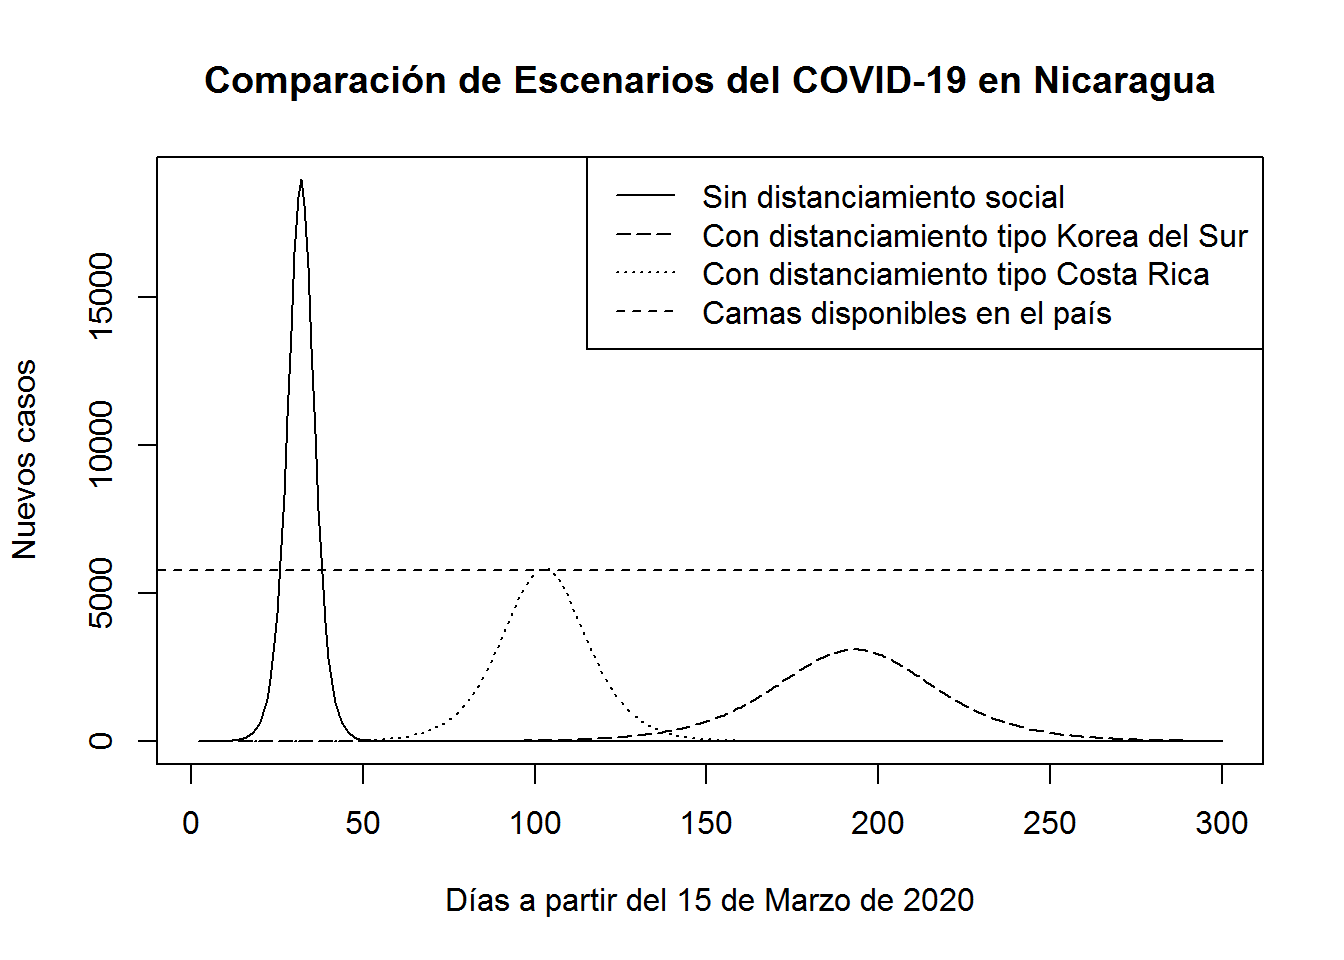
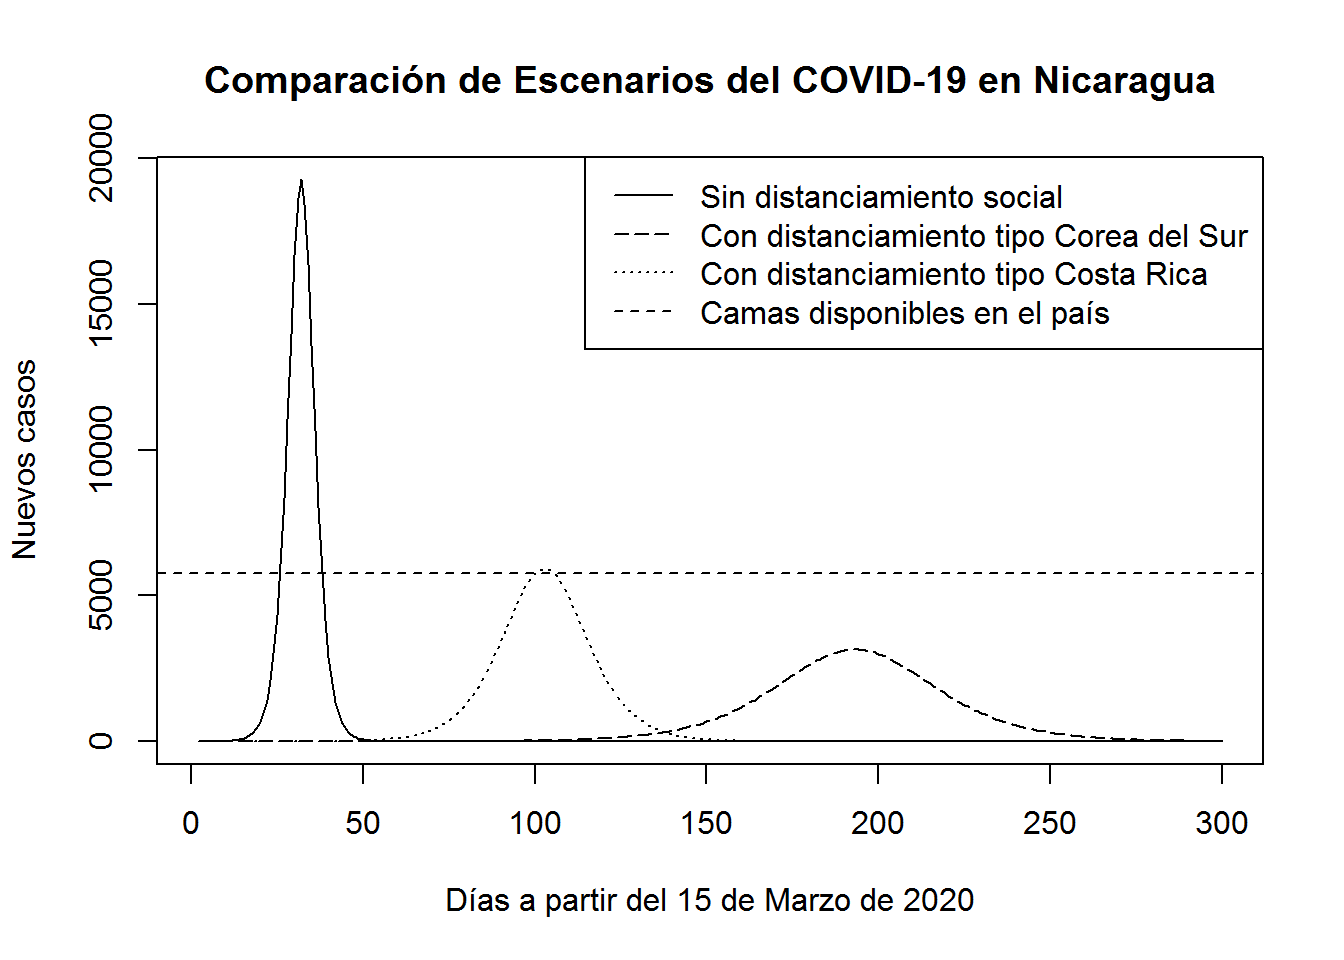
Add files via upload

diff --git a/COVID-19_Nicaragua.html b/COVID-19_Nicaragua.html
@@ -318,7 +318,7 @@ $(document).ready(function () {
 <p>El COVID-19 es la infermedad infecciosa causada por el coronavirus de Wuhan. Existe mucha incertidumbre sobre el comportamiento que tendrá esta enfermedad en Nicaragua. Usaremos las estadísticas reportadas por otros países, datos poblacionales generales y modelos matemáticos del crecimiento biológico para sacar nuestras propias conclusiones. Que el ejercicio sirva para generar conciencia, discusión y mutuo aprendizaje.</p>
 <div id="muertes-a-mediano-y-largo-plazo" class="section level2">
 <h2>Muertes a mediano y largo plazo</h2>
-<p>Usando la <a href="https://datosmacro.expansion.com/paises/nicaragua">pirámide poblacional de Nicaragua</a>, y la <a href="https://www.worldometers.info/coronavirus/coronavirus-age-sex-demographics/">tasa de muertes por el COVID-19</a>, podemos calcular cuántas personas morirán en Nicaragua. Dado que no hay impuesta una política de distanciamiento social, podemos asumir que la infección será generalizada. De esta forma, la relación con las muertes esperadas, asumiendo que todos se contagian, es fácil de estimar:</p>
+<p>Usando la <a href="https://datosmacro.expansion.com/paises/nicaragua">pirámide poblacional de Nicaragua</a>, y la <a href="https://www.worldometers.info/coronavirus/coronavirus-age-sex-demographics/">tasa de muertes por el COVID-19</a>, podemos calcular cuántas personas podrían morir en Nicaragua. Dado que no hay impuesta una política de distanciamiento social, podemos asumir que la infección será generalizada. De esta forma, la relación con las muertes esperadas, asumiendo que todos se contagian, es fácil de estimar:</p>
 <table>
 <colgroup>
 <col width="15%" />
@@ -422,7 +422,7 @@ $(document).ready(function () {
 </tbody>
 </table>
 <p>Así, de un total de 6,632,977, se espera que a causa del COVID-19 mueran a largo plazo <strong>49,819.98</strong>, una tasa de mortalidad del <strong>0.75%</strong>.</p>
-<p>A mediano plazo podemos considerar únicamente a los centros urbanos, la población más expuerta al virus. Según el <a href="https://www.elnuevodiario.com.ni/economia/463377-mas-mitad-nicas-residen-areas-urbanas/">nuevo diario</a> al 2018 había un 57.6% de la población viviendo en concentraciones urbanas. Esto es, la población en riesgo de contagio corresponde a 3,820,595 personas, lo que resultaría en una mortalidad a mediano plazo de 49,819.98 * 57.6/100 = <strong>28,696.31 individuos</strong>.</p>
+<p>A mediano plazo podemos considerar únicamente a los centros urbanos, la población más expuesta al virus. Según el <a href="https://datos.bancomundial.org/indicador/SP.RUR.TOTL.ZS?locations=NI">Banco Mundial</a> al 2018 41.478% de la población vivía en el campo, esto es 58.522% de la población se estima vivía en concentraciones urbanas. Así, la población en riesgo de contagio corresponde a 3,881,751 personas, lo que resultaría en una mortalidad a mediano plazo de 49,819.98 * 0.58522 = <strong>29,155.65 individuos</strong>.</p>
 </div>
 <div id="modelo-de-crecimiento-dinámico-de-la-infección" class="section level2">
 <h2>Modelo de crecimiento dinámico de la infección</h2>
@@ -448,8 +448,8 @@ N(t) = \frac{KN_0}{(K - N_0)e^{-rt}+N_0},
 </ul>
 <div id="población-infectada-inicial" class="section level3">
 <h3>Población infectada inicial</h3>
-<p>Según diario de Nicaragua, <a href="https://www.el19digital.com/articulos/ver/titulo:101277-vigilancia-epidemiologica-permanente-permite-que-nicaragua-aun-no-registre-casos-de-coronavirus">El 19 Digital</a>, no existen casos de COVID-19 en el país al 15 de marzo de 2020. Los <a href="https://www.el19digital.com/el19tv/ver/titulo:14699-asi-es-el-protocolo-de-seguridad-sanitaria-ante-el-coronavirus-en-el-aeropuerto-augusto-c-sandino">protocolos de prevensión usados usados</a>, no son infalibles. Basta con observar lo <a href="https://nuevaya.com.ni/centroamerica-reporta-dos-fallecidos-por-el-coronavirus/">casos de COVID-19 en los paises vecinos de centroamérica</a> para entender que a estas alturas es altamente probable que existan personas infectadas que no han sido identificadas.</p>
-<p>Hasta el momento según el <a href="https://nuevaya.com.ni/centroamerica-reporta-dos-fallecidos-por-el-coronavirus/">SICA</a>, al 15 de marzo de 2020, en Centroamérica se han identificado los siguientes casos:</p>
+<p>Según diario de Nicaragua, <a href="https://www.el19digital.com/articulos/ver/titulo:101277-vigilancia-epidemiologica-permanente-permite-que-nicaragua-aun-no-registre-casos-de-coronavirus">El 19 Digital</a>, no existen casos de COVID-19 en el país al 15 de marzo de 2020. Los <a href="https://www.el19digital.com/el19tv/ver/titulo:14699-asi-es-el-protocolo-de-seguridad-sanitaria-ante-el-coronavirus-en-el-aeropuerto-augusto-c-sandino">protocolos de prevención usados usados</a>, no son infalibles. Basta con observar lo <a href="https://nuevaya.com.ni/centroamerica-reporta-dos-fallecidos-por-el-coronavirus/">casos de COVID-19 en los paises vecinos de centroamérica</a> para entender que a estas alturas es altamente probable que existan personas infectadas que no han sido identificadas.</p>
+<p>Hasta el momento según el <a href="https://nuevaya.com.ni/centroamerica-reporta-dos-fallecidos-por-el-coronavirus/">SICA</a>, al 15 de marzo de 2020, en Centroamérica se habían identificado los siguientes casos:</p>
 <table>
 <thead>
 <tr class="header">
@@ -506,7 +506,7 @@ N(t) = \frac{KN_0}{(K - N_0)e^{-rt}+N_0},
 <div id="tasa-de-crecimiento" class="section level3">
 <h3>Tasa de crecimiento</h3>
 <p>Para calcular la tasa de crecimiento de la infección podemos usar como referencia la base de datos de la OMS disponible por la organización <a href="https://ourworldindata.org/"><em>Our Word in Data</em></a>. La base de datos de la OMS se puede descargar en formato CSV de <a href="https://covid.ourworldindata.org/data/full_data.csv">aquí</a>.</p>
-<p>Debido a que la base de datos es grande y difícil de manipular manualmente usando hojas de cálculo, hacemos uso de <code>R</code>, uno de los software de cienca de datos más populares al día de hoy, para extraer la base de datos y calcular el promedio de crecimiento de todos los países registrados en la OMS:</p>
+<p>Debido a que la base de datos es grande y difícil de manipular manualmente usando hojas de cálculo, hacemos uso de <code>R</code>, uno de los lenguajes de ciencia de datos más populares al día de hoy, para extraer la base de datos y calcular el promedio de crecimiento de todos los países registrados en la OMS:</p>
 <pre class="r"><code>COVID19 &lt;- read.csv(url(&quot;https://covid.ourworldindata.org/data/full_data.csv&quot;))
 
 COVID19$location = factor(COVID19$location)
@@ -544,23 +544,23 @@ cat(&quot;Tasa de crecimiento diario promedio por país es &quot;, rate_total, &
 ##  Datos faltantes =  0 
 ##  de paises:</code></pre>
 <p>Así, 1.399 es la tasa de crecimiento diaria del COVID-19. Esto implica que en un día hay un incremento de 0.399 de casos por unidad. Un valor increíblemente alto, y la razón por la cual vemos medidas tan extremas en muchas partes del mundo. En estos cálculos la tasa de crecimiento diaria de cada país tiene el mismo peso al momento de calcularse el promedio, independientemente de cuantos registros tenga cada país. Esto ayuda a reducir el sesgo de lo países que tenían más avance y sus tasas se habían reducido por las medidas de contención o por haber superado la crisis. Este último sería el caso de China.</p>
-<p>También vale la pena considerar que la tasa de transferencia se pudiera reducir en países con alta humedad y termpertura. Incluso hay un estudio prelimiar presentado por <span class="citation">Wang et al. (2020)</span> que da soporte ha esto. Sin embargo, la relación encontrada, aunque estadísticamente significativa, es baja. Estas consideraciones pueden mejorar la modelación, sin embargo, ante a incertidumbre, <a href="https://www.who.int/emergencies/diseases/novel-coronavirus-2019/advice-for-public/myth-busters">recomendaciones de la OMS sobre el tema de la temperatura y otros mitos</a> y el <a href="https://www.voanews.com/science-health/coronavirus-outbreak/australian-doctor-says-warm-weather-unlikely-stem-covid-19">escepticismo del gobierno australiano</a>, para este ejercicio, en nuestro modelo mantendremos el análisis conservador usando la estimación de <strong><span class="math inline">\(r\)</span> = 0.399</strong> que calculamos anteriormente.</p>
+<p>También vale la pena considerar que la tasa de transferencia se pudiera reducir en países con alta humedad y termpertura. Incluso hay un estudio prelimiar presentado por <span class="citation">Wang et al. (2020)</span> que da soporte a esto. Sin embargo, la relación encontrada, aunque estadísticamente significativa, es baja. Estas consideraciones pueden mejorar la modelación, sin embargo, ante la incertidumbre, <a href="https://www.who.int/emergencies/diseases/novel-coronavirus-2019/advice-for-public/myth-busters">recomendaciones de la OMS sobre el tema de la temperatura y otros mitos</a> y el <a href="https://www.voanews.com/science-health/coronavirus-outbreak/australian-doctor-says-warm-weather-unlikely-stem-covid-19">escepticismo del gobierno australiano</a>, para este ejercicio, en nuestro modelo mantendremos el análisis conservador usando la estimación de <strong><span class="math inline">\(r\)</span> = 0.399</strong> que calculamos anteriormente.</p>
 </div>
 <div id="tamaño-de-la-población-expuesta-a-la-infección" class="section level3">
 <h3>Tamaño de la población expuesta a la infección</h3>
-<p>Partiendo de una población de 6,632,977 de Nicaragüenses, donde el 57.6% vive en zonas de concentración urbana, el grupo de interés se restingiría en 3,820,595 personas. Por simplicidad ignoraremos las zonas rurales al momento de hacer los cálculos, pues el desarrollo de la enfermedad en esas zonas es menor. Así, el valor <strong><span class="math inline">\(K\)</span></strong> para nuestro modelo lo definimos como <strong>3,820,595</strong>.</p>
+<p>Partiendo de una población de 6,632,977 de Nicaragüenses, donde el 58.522% vive en zonas de concentración urbana, el grupo de interés se restingiría en 3,881,751 personas. Por simplicidad ignoraremos las zonas rurales al momento de hacer los cálculos, pues el desarrollo de la enfermedad en esas zonas es menor. Así, el valor <strong><span class="math inline">\(K\)</span></strong> para nuestro modelo lo definimos como <strong>3,881,751</strong>.</p>
 </div>
 <div id="estimación-del-pico-de-la-crisis" class="section level3">
 <h3>Estimación del pico de la crisis</h3>
 <p>Ajustando el modelo de <span class="citation">Verhulst (1838)</span> anteriormente expuesto obtenemos</p>
 <p><span class="math display">\[\begin{equation}
-N(t) = \frac{(3,820,595)(14)}{(3,820,595 - 14)e^{-0.347t}+14},
+N(t) = \frac{(3,881,751)(14)}{(3,881,751 - 14)e^{-0.399t}+14},
 \end{equation}\]</span></p>
 <p>lo que genera una curva sinoidal como se muestra</p>
 <p><img src="COVID-19_Nicaragua_files/figure-html/Crecimiento-1.png" width="672" /></p>
 <p>Ahora, si en lugar de observar el crecimiento de los contagios, revisamos sólo los casos nuevos obtenemos</p>
 <p><img src="COVID-19_Nicaragua_files/figure-html/IncDiario-1.png" width="672" /></p>
-<p>El modelo inicia al tiempo cero, con 14 casos el día 15 de Marzo. Aproximadamente para el 4 de Abril se espera un fuerte crecimiento en el número de casos que se mantendrá a lo largo de un mes, cuando la saturación en la población haga que la infección se ralentice. La mayoría de los casos de infección serán “inofensivos”, sin embargo, un 0.75% serán letales e impondrá un fuerte estrés al sistema de salud. Se espera que entre el 4 de Abril y el 4 de Mayo el sistema de salud del país colapse a menos que se tomen medida precautorias, que incluso pueden probar no ser suficientes.</p>
+<p>El modelo inicia al tiempo cero, con 14 casos el día 15 de Marzo. Aproximadamente para el 2020-03-23 se espera un crecimiento en el número de casos de 100 personas o más que se mantendrá hasta el 2020-05-10, cuando la saturación en la población haga que la infección se ralentice a menos de 100 casos por día. La mayoría de los casos de infección serán “inofensivos”, sin embargo, un 0.75% serán letales e impondrá un fuerte estrés al sistema de salud. Se espera que entre esas fechas el sistema de salud del país colapse a menos que se tomen medida precautorias, que incluso pueden probar no ser suficientes.</p>
 <p>Los resultados calculados pueden resultar dramáticos para algunos. Sin embargo, este comportamiento es propio de los crecimientos exponenciales, y el escenario descrito corresponde muy de cerca con los <a href="https://www.infobae.com/america/mexico/2020/03/12/coronavirus-en-mexico-en-15-dias-podriamos-pasar-a-la-fase-de-contagios-comunitarios-con-cientos-de-casos-estima-la-secretaria-de-salud/">escenarios no deseados y estimados en México</a>.</p>
 </div>
 </div>
@@ -572,14 +572,19 @@ N(t) = \frac{(3,820,595)(14)}{(3,820,595 - 14)e^{-0.347t}+14},
 </div>
 <div id="se-puede-mejorar-esta-situación" class="section level2">
 <h2>¿Se puede mejorar esta situación?</h2>
-<p>Sí, sí se puede. Existen diversas estrategias para combatir la infección que han probado ser efectivas para reducir el crecimiento de la infección. Cabe notar que el avance del COVID-19 hace no factible evitar el contagio de la enfermedad aún en cuarentenas. Entre los países que han logrado mitigar el avance de las infecciones se encuentra el Korea del Sur, que ha dado un ejemplo para el mundo, y de manera local <a href="https://www.ministeriodesalud.go.cr/index.php/centro-de-prensa/noticias/741-noticias-2020/1572-gobierno-declara-estado-de-emergencia-nacional-impide-llegada-de-extranjeros-y-se-suspende-lecciones-en-todos-los-centros-educativos-del-pais">Costa Rica</a>.</p>
-<p>Con sus medidas Korea del Sur ha logrado mantener una <a href="https://ourworldindata.org/coronavirus">tasa de crecimiento que dobla los casos confirmados en 11 días</a>. Esto implica una tasa diaria de crecimiento de <span class="math inline">\(2^{1/11}\)</span> = 1.065. Es decir, que en un día los casos en Korea del Sur crecen en un <span class="math inline">\(r\)</span> de 6.5 %. Por otro lado, siguiendo la <a href="https://ourworldindata.org/coronavirus">misma fuente de información</a> del caso de Korea del Sur, Costa Rica mantiene una tasa de crecimiento inicial que dobla los casos confirmados en 6 días. Esto implica una tasa diaria de <span class="math inline">\(2^{1/6}\)</span> = 1.122, o un <span class="math inline">\(r\)</span> de 12.2%.</p>
-<p>Si Nicaragua tomara las medidas de Korea del Sur o de Costa Rica, los casos que requerirían hospitalización se reducirían de la siguiente manera:</p>
+<p>Sí, sí se puede. Existen diversas estrategias para combatir la infección que han probado ser efectivas para reducir el crecimiento de la infección. Cabe notar que el avance del COVID-19 hace no factible evitar el contagio de la enfermedad aún en cuarentenas. Entre los países que han logrado mitigar el avance de las infecciones se encuentra Corea del Sur, que ha dado un ejemplo para el mundo, y de manera local <a href="https://www.ministeriodesalud.go.cr/index.php/centro-de-prensa/noticias/741-noticias-2020/1572-gobierno-declara-estado-de-emergencia-nacional-impide-llegada-de-extranjeros-y-se-suspende-lecciones-en-todos-los-centros-educativos-del-pais">Costa Rica</a>.</p>
+<p>Con sus medidas Corea del Sur ha logrado mantener una <a href="https://ourworldindata.org/coronavirus">tasa de crecimiento que dobla los casos confirmados en 11 días</a>. Esto implica una tasa diaria de crecimiento de <span class="math inline">\(2^{1/11}\)</span> = 1.065. Es decir, que en un día los casos en Corea del Sur crecen en un <span class="math inline">\(r\)</span> de 6.5 %. Por otro lado, siguiendo la <a href="https://ourworldindata.org/coronavirus">misma fuente de información</a> del caso de Corea del Sur, Costa Rica, también con medidas de distanciamiento social y otras medidas epidemiologicas recomendadas, mantiene una tasa de crecimiento inicial que dobla los casos confirmados en 6 días. Esto implica una tasa diaria de <span class="math inline">\(2^{1/6}\)</span> = 1.122, o un <span class="math inline">\(r\)</span> de 12.2%.</p>
+<p>Si Nicaragua tomara las medidas de Corea del Sur o de Costa Rica, los casos que requerirían hospitalización se reducirían de la siguiente manera:</p>
 <p><img src="COVID-19_Nicaragua_files/figure-html/Escenarios-1.png" width="672" /></p>
-<p>Claramente se observa que el efecto de tomar medidas como las de Korea del Sur deja al país en una situación grave, pero todavía manejable, con una esperanza de salir airosos de la crisis. El total de casos no se disminuye, pero poder controlar la tasa de crecimiento evita el colapso del sistema de salud.</p>
+<p>Claramente se observa que el efecto de tomar medidas como las de Corea del Sur deja al país en una situación grave, pero todavía manejable, con una esperanza de salir airosos de la crisis. El total de casos no se disminuye, pero poder controlar la tasa de crecimiento evita el colapso del sistema de salud.</p>
 </div>
-<div id="para-concluir-qué-podemos-hacer-por-nuestro-país" class="section level2">
-<h2>Para Concluir, ¿Qué Podemos Hacer por Nuestro País?</h2>
+<div id="algunas-consideraciones" class="section level2">
+<h2>Algunas consideraciones</h2>
+<p>Como en toda modelación, los supuestos son los que la sostienen. Entre estos supuestos el número de casos actuales <span class="math inline">\(N_0\)</span> se estimó como 14, muy distinto los 0 casos identificados. Una mejor estimación mejoraría la estimación del pico de la crisis. Por ejemplo, si <span class="math inline">\(N_0\)</span> se reestimara en 2, el período de la crisis se postergaría por 5 días. Analistas interesados pueden usar el modelo ya calibrado para estudiar distintos escenarios.</p>
+</div>
+<div id="para-concluir-qué-podemos-hacer" class="section level2">
+<h2>Para Concluir, ¿Qué Podemos Hacer?</h2>
+<p>Como conclusión, estamos al borde de una una situación crítica y única en el mundo, donde el actuar individual y colectivo de hoy tendrá un impacto duradero el nuestro futuro.</p>
 <p>Las acciones son claras, el <a href="https://www.ecdc.europa.eu/en/publications-data/rapid-risk-assessment-novel-coronavirus-disease-2019-covid-19-pandemic-increased">Centro Europeo de Prevención y Control</a> tras hacer un análisis de riesgo de la situación resume las medidas de la siguiente manera:</p>
 <ul>
 <li>Distanciamiento social.</li>
@@ -589,7 +594,7 @@ N(t) = \frac{(3,820,595)(14)}{(3,820,595 - 14)e^{-0.347t}+14},
 <li>Si las capacidades están limitadas, priorizar acciones que maximicen su efecto en las masas de población.</li>
 <li>Monitoreo y detección rápida de casos para reducir la diseminación de la enfermedad.</li>
 </ul>
-<p>Actuar con prontitud y contundencia parace ser el curso recomendado. Postergar las acciones o implementarlas inadecuadamente puede llevar a <a href="https://www.thelancet.com/journals/lancet/article/PIIS0140-6736(20)30522-5/fulltext">graves consecuencias</a>.</p>
+<p>Actuar con prontitud y contundencia parece ser el curso recomendado. Postergar las acciones o implementarlas inadecuadamente puede llevar a <a href="https://www.thelancet.com/journals/lancet/article/PIIS0140-6736(20)30522-5/fulltext">graves consecuencias</a>.</p>
 </div>
 <div id="referencias" class="section level2 unnumbered">
 <h2>Referencias</h2>
